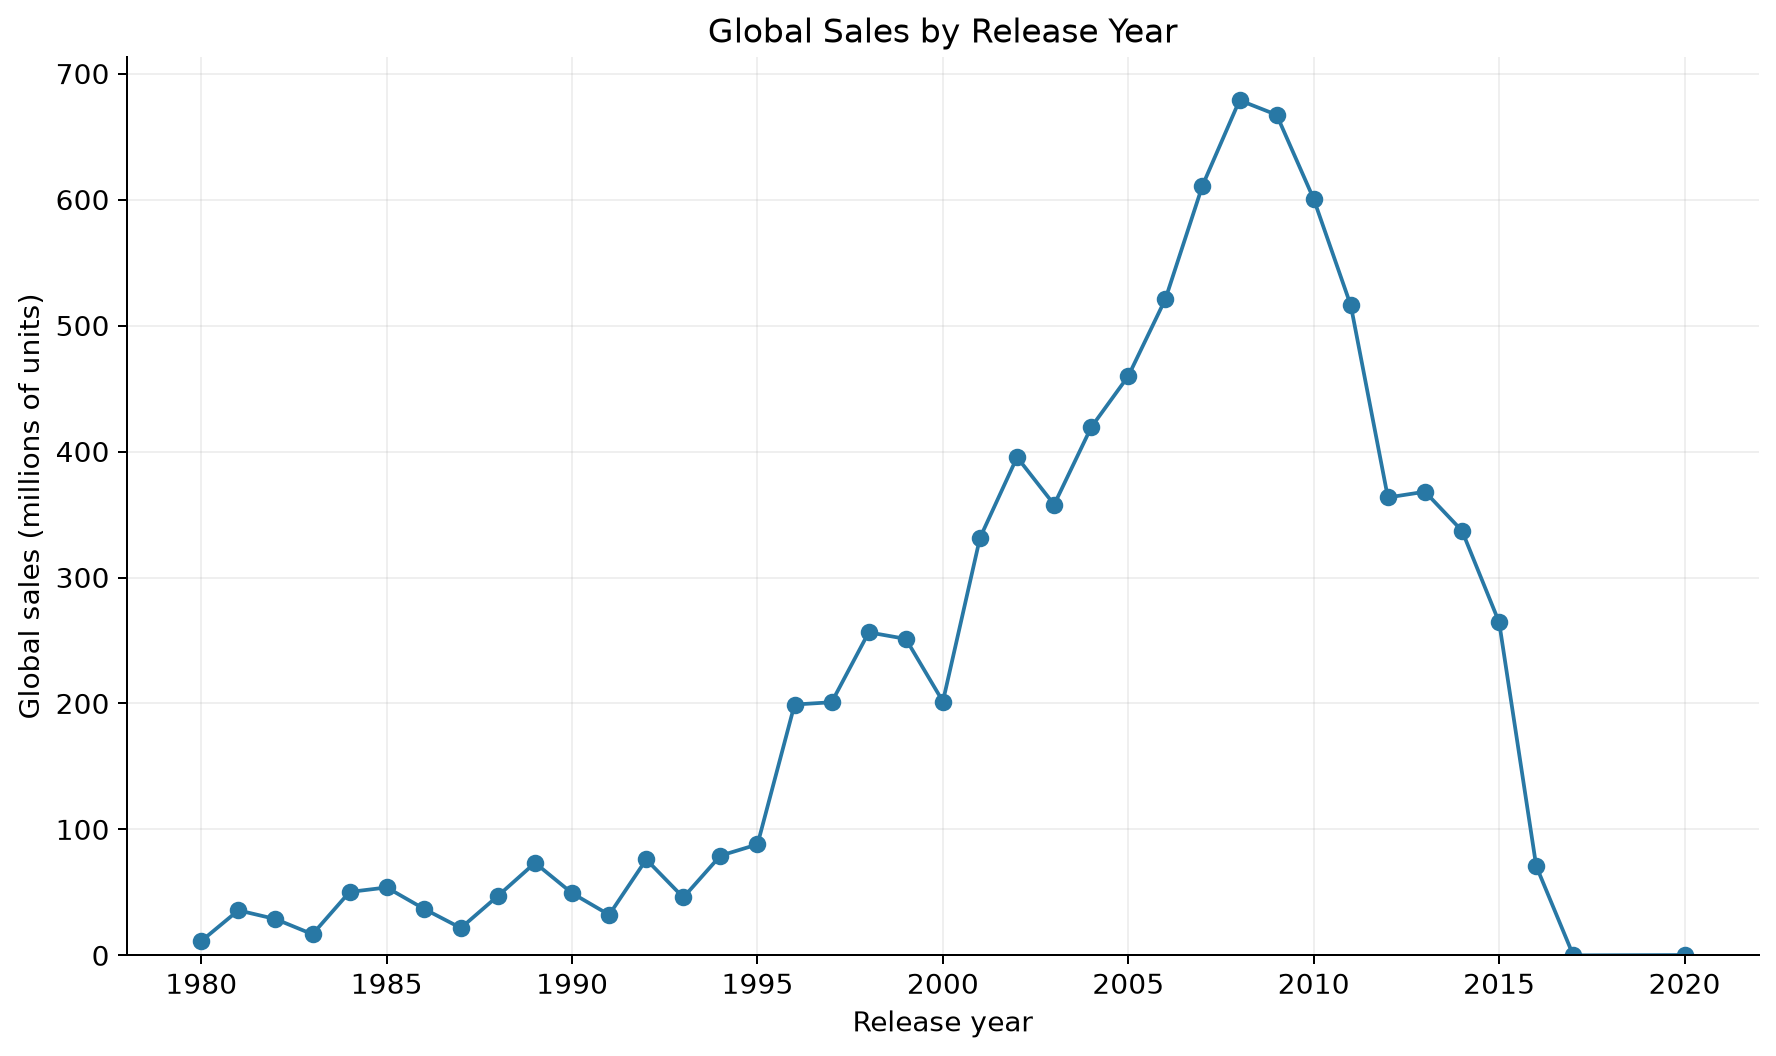
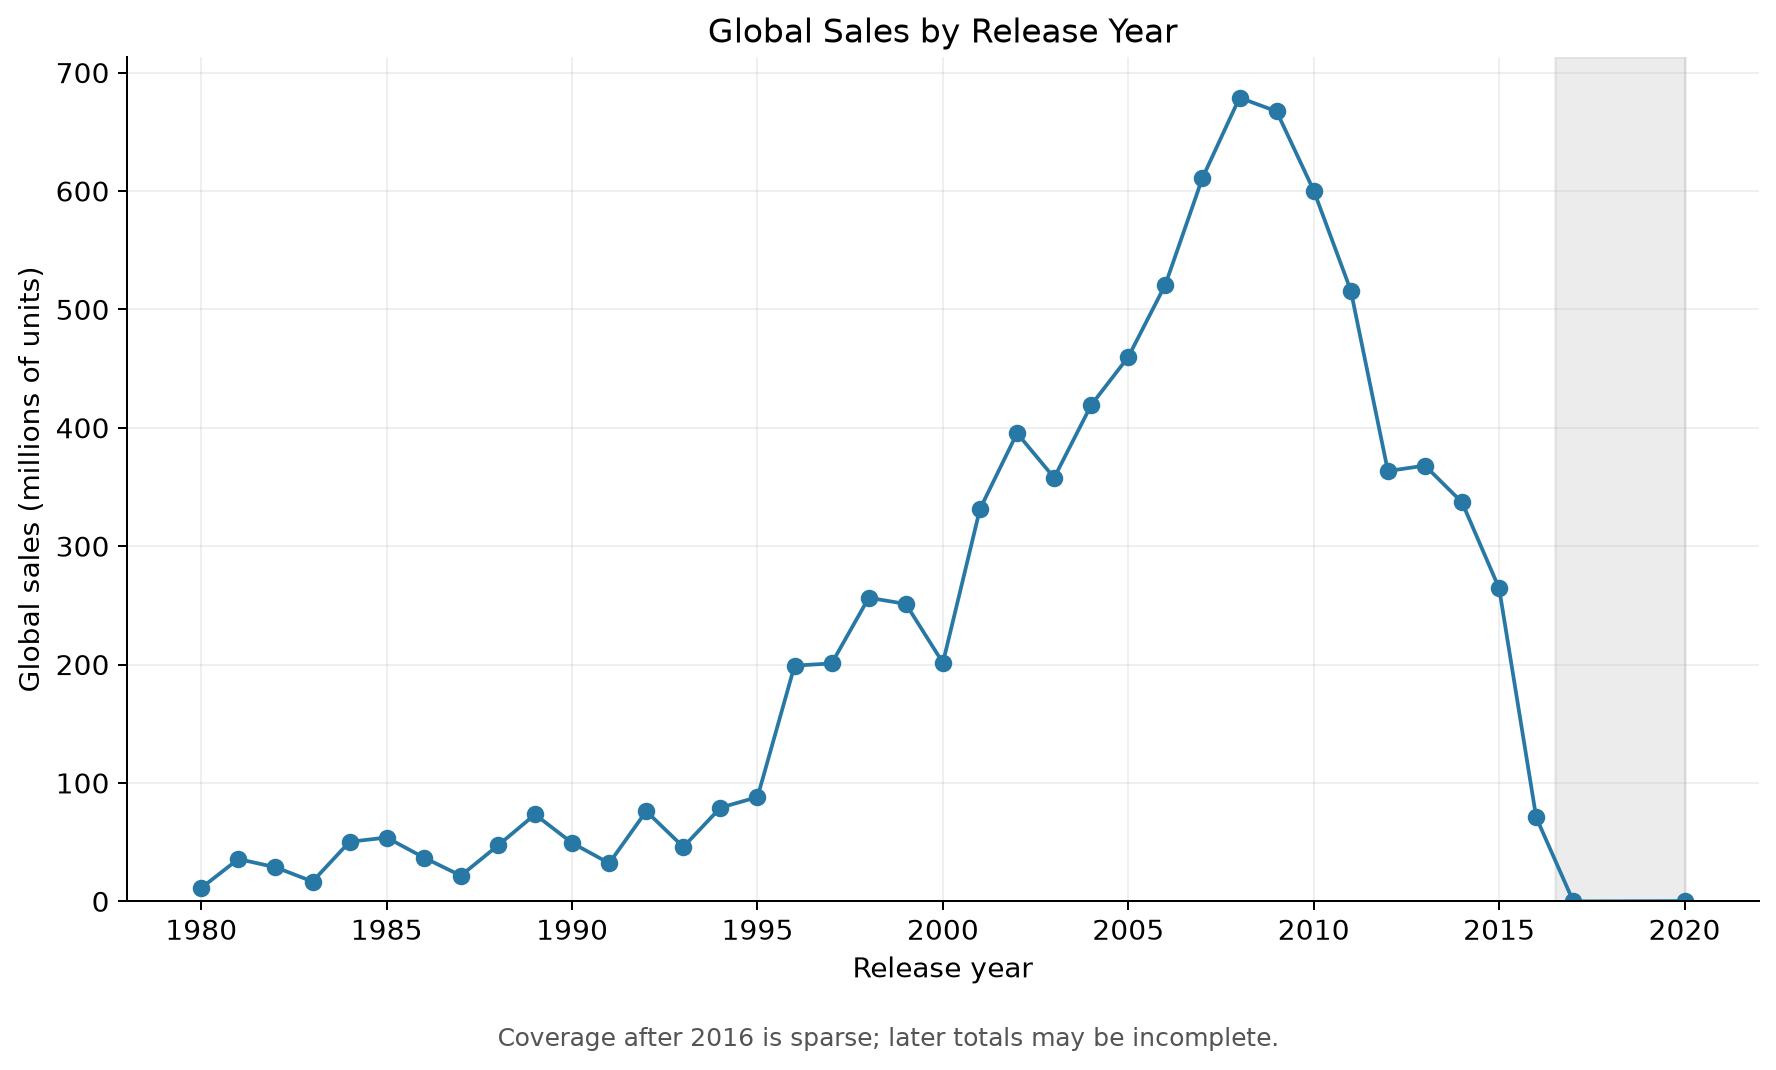
Improve yearly sales visualization

diff --git a/scripts/analyze_from_mysql.py b/scripts/analyze_from_mysql.py
@@ -103,7 +103,11 @@ def main():
            ylabel="Global sales (millions of units)", ylim=(0, None))
     ax.xaxis.set_major_formatter(StrMethodFormatter("{x:.0f}"))
     ax.grid(alpha=0.2)
-    fig.tight_layout()
+    if years["Year"].max() > 2016:
+        ax.axvspan(2016.5, years["Year"].max(), color="gray", alpha=0.15)
+    fig.text(0.5, 0.02, "Coverage after 2016 is sparse; later totals may be incomplete.",
+             ha="center", fontsize=10, color="#555555")
+    fig.tight_layout(rect=(0, 0.05, 1, 1))
     save_chart(fig, output_folder, "global_sales_by_year.png")
     peak = years.loc[years["total_global_sales"].idxmax()]
     print(f"Year: {int(peak['Year'])} has the highest global sales total at "
